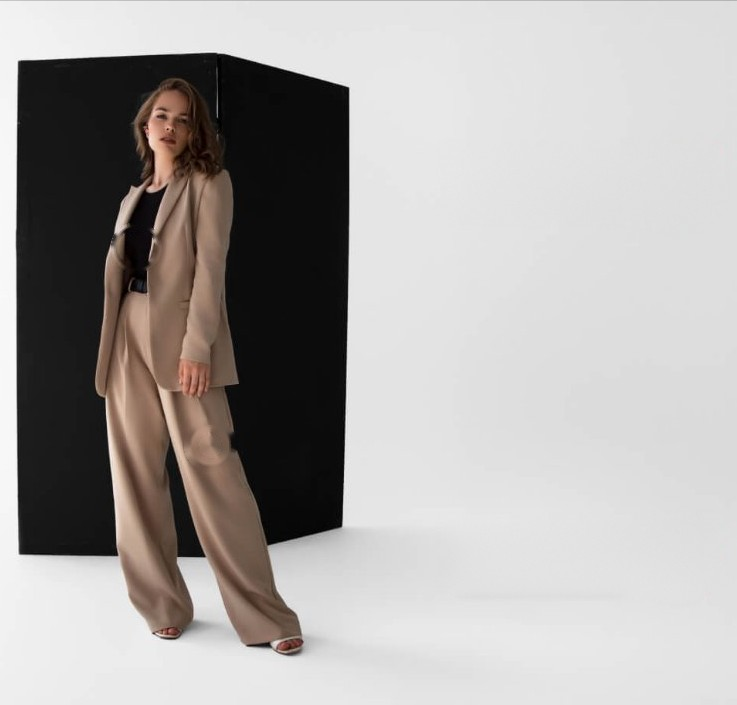
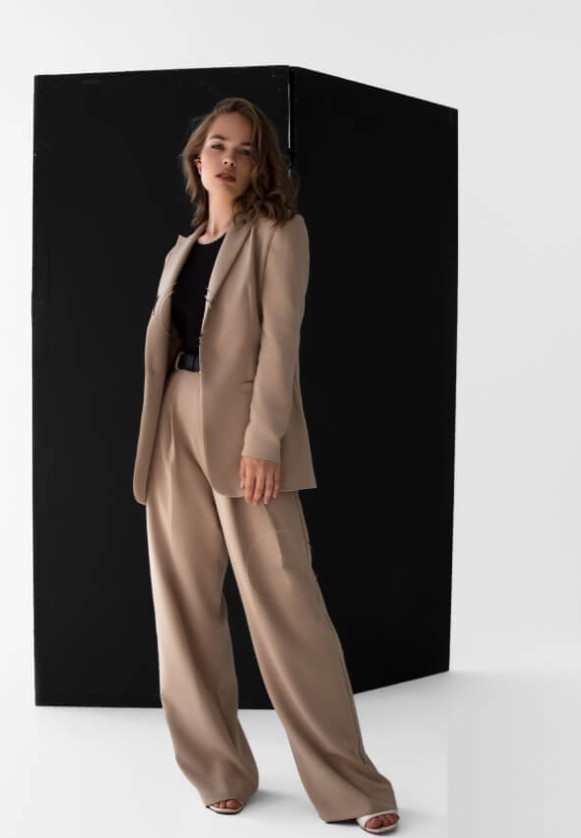
Boutique look section: clickable hotspots, sharper photo, tighter layout

diff --git a/packages/templates/src/web/boutique.tsx b/packages/templates/src/web/boutique.tsx
@@ -494,6 +494,54 @@ function Hero({ shop, link, editing }: BView) {
   );
 }
 
+/** Look book: a big photo with points on it; picking a point shows that product in the card (no scripts: radio buttons). */
+function Look({ view, fallback }: { view: BView; fallback: Product }) {
+  const { shop, link, editing } = view;
+  const products = visible(shop);
+  const spots = (shop.lookSpots ?? [])
+    .map((sp) => ({ ...sp, product: products.find((p) => p.id === sp.productId) }))
+    .filter((sp): sp is typeof sp & { product: Product } => Boolean(sp.product));
+  const cards = spots.length ? spots.map((sp) => sp.product) : [fallback];
+  const many = spots.length > 1;
+  return (
+    <section className="bq-look">
+      {many && spots.map((sp, k) => <input key={sp.id} type="radio" name="bq-look" id={`bq-look-${k}`} className="bq-dot" defaultChecked={k === 0} aria-label={sp.product.name} />)}
+      <div className="bq-look-in">
+        <div className="bq-look-text">
+          <Opt value={shop.lookTitle} editing={editing} edit={ed("site.shop.lookTitle", "text", "عنوان بخش")}>
+            <h2 {...ed("site.shop.lookTitle", "text", "عنوان بخش")}>{shop.lookTitle}</h2>
+          </Opt>
+          <Opt value={shop.lookText} editing={editing} edit={ed("site.shop.lookText", "text", "متن زیر عنوان")}>
+            <p {...ed("site.shop.lookText", "text", "متن زیر عنوان")}>{shop.lookText}</p>
+          </Opt>
+          <div className="bq-look-cards">
+            {cards.map((p, k) => (
+              <PageLink key={`${p.id}-${k}`} to={productPath(p)} link={link} className="bq-look-card">
+                <span className="bq-look-card-pic">{pic(p) && <img src={pic(p)} alt={p.name} loading="lazy" />}</span>
+                <b>{p.name}</b>
+                <Price view={view} p={p} />
+              </PageLink>
+            ))}
+          </div>
+        </div>
+        <div className="bq-look-pic">
+          <span className="bq-look-frame">
+            <span className="bq-look-img" {...ed("site.shop.lookImage", "image", "عکس بزرگ")}>
+              {safeUrl(shop.lookImage) && <img src={safeUrl(shop.lookImage)} alt="" loading="lazy" />}
+            </span>
+            {many &&
+              spots.map((sp, k) => (
+                <label key={sp.id} htmlFor={`bq-look-${k}`} className="bq-spot" style={{ left: `${sp.x}%`, top: `${sp.y}%` }} title={sp.product.name}>
+                  <i />
+                </label>
+              ))}
+          </span>
+        </div>
+      </div>
+    </section>
+  );
+}
+
 function Home(view: BView) {
   const { ctx, shop, link, editing } = view;
   const data = ctx.data;
@@ -618,26 +666,7 @@ function Home(view: BView) {
         />
       )}
 
-      {on("look") && look && (
-        <section className="bq-look">
-          <div className="bq-look-text">
-            <Opt value={shop.lookTitle} editing={editing} edit={ed("site.shop.lookTitle", "text", "عنوان بخش")}>
-              <h2 {...ed("site.shop.lookTitle", "text", "عنوان بخش")}>{shop.lookTitle}</h2>
-            </Opt>
-            <Opt value={shop.lookText} editing={editing} edit={ed("site.shop.lookText", "text", "متن زیر عنوان")}>
-              <p {...ed("site.shop.lookText", "text", "متن زیر عنوان")}>{shop.lookText}</p>
-            </Opt>
-            <PageLink to={productPath(look)} link={link} className="bq-look-card">
-              <span className="bq-look-card-pic">{pic(look) && <img src={pic(look)} alt={look.name} loading="lazy" />}</span>
-              <b>{look.name}</b>
-              <Price view={view} p={look} />
-            </PageLink>
-          </div>
-          <span className="bq-look-pic" {...ed("site.shop.lookImage", "image", "عکس بزرگ")}>
-            {safeUrl(shop.lookImage) && <img src={safeUrl(shop.lookImage)} alt="" loading="lazy" />}
-          </span>
-        </section>
-      )}
+      {on("look") && look && <Look view={view} fallback={look} />}
 
       {on("brands") && cats.length > 0 && (
         <section className="bq-wrap bq-brands">
@@ -1115,10 +1144,11 @@ export function boutiqueSample(locale: ResumeData["locale"]): ResumeData {
     { id: "s4", name: "تاپ مشکی و ژاکت", categoryId: "c2", price: 1350000, images: [img("p4")], description: d },
     { id: "s5", name: "پالتو خزدار کرم", categoryId: "c1", price: 4200000, badge: "جدید", sizes: ["M", "L", "XL"], images: [img("p5")], description: d },
     { id: "s6", name: "تاپ کبریتی کرم", categoryId: "c2", price: 690000, images: [img("p6")], description: d },
-    { id: "s7", name: "کت تک بژ", categoryId: "c1", price: 3100000, sizes: ["S", "M", "L"], images: [img("p7")], description: d },
+    { id: "s7", name: "کت تک بژ", categoryId: "c1", price: 3100000, sizes: ["S", "M", "L"], images: [img("p11"), img("p7")], description: d },
     { id: "s8", name: "دامن جین کلوش", categoryId: "c3", price: 980000, featured: true, images: [img("p8")], description: d },
     { id: "s9", name: "بوت چرم قهوهای", categoryId: "c5", price: 2900000, featured: true, sizes: ["37", "38", "39", "40"], images: [img("p9")], description: d },
     { id: "s10", name: "کت جین کلاسیک", categoryId: "c1", price: 1750000, featured: true, images: [img("p10")], description: d },
+    { id: "s11", name: "ست کت و شلوار بژ", categoryId: "c1", price: 4850000, salePrice: 4390000, sizes: ["S", "M", "L"], images: [img("p7"), img("p11")], description: d },
   ];
   return {
     ...base,
@@ -1161,6 +1191,10 @@ export function boutiqueSample(locale: ResumeData["locale"]): ResumeData {
         lookText: "یک ترکیب آماده برای روزهای کاری و دورهمیها.",
         lookImage: img("look"),
         lookProductId: "s7",
+        lookSpots: [
+          { id: "k1", productId: "s7", x: 32, y: 37.5 },
+          { id: "k2", productId: "s11", x: 48.5, y: 67.7 },
+        ],
         trendImage: img("trend"),
         bandItems: ["استایل برای هر سفر", "خوشپوش، بدون زحمت", "استایل مناسب خودت را پیدا کن"],
         perks: [
@@ -1332,18 +1366,34 @@ ${[1, 2, 3, 4, 5].map((n) => `.bq-dot:nth-of-type(${n}):checked ~ .bq-slides > .
 .bq-band .bq-marq-copy > span { gap: clamp(26px, 3.4cqi, 54px); padding-inline-end: clamp(26px, 3.4cqi, 54px); }
 .bq-band i { font-style: normal; opacity: .85; }
 
-/* Look book: the product beside a big photo; the photo keeps its own size and fades into the background */
-.bq-look { display: grid; grid-template-columns: minmax(0, 1fr) minmax(0, 1fr); height: clamp(480px, 44cqi, 705px); background: linear-gradient(90deg, #E3E3E3, #E6E6E6 48%, #EFEFEF); color: #111; }
-.bq-look-text { display: grid; align-content: center; justify-items: center; gap: 12px; padding: clamp(30px, 4cqi, 60px) 20px; text-align: center; }
-.bq-look-text h2 { font-size: clamp(1.7em, 3.2cqi, 3em); font-weight: 500; }
+/* Look book: a product card beside a big photo with points; the photo keeps its own size and blends into the background */
+/* The background follows the photo's own light: lighter on its outer side, darker towards the card. */
+.bq-look { position: relative; background: linear-gradient(90deg, #F4F4F4 14%, #E5E5E5 48%, #ECECEC); color: #111; }
+.bq-look-in { display: grid; grid-template-columns: minmax(0, 1fr) minmax(0, 1fr); height: clamp(540px, 50cqi, 800px); }
+.bq-look-text { display: grid; align-content: center; justify-items: center; gap: 10px; padding: clamp(24px, 3cqi, 46px) 20px; text-align: center; }
+.bq-look-text h2 { font-size: clamp(1.7em, 3cqi, 2.9em); font-weight: 500; }
 .bq-look-text > p { color: #555; }
-.bq-look-card { display: grid; justify-items: center; gap: 6px; width: min(250px, 60%); margin-top: clamp(10px, 2cqi, 30px); }
-.bq-look-card-pic { position: relative; width: 100%; aspect-ratio: 290 / 372; overflow: hidden; background: #F2F2F2; }
+.bq-look-cards { display: grid; width: min(300px, 70%); margin-top: clamp(8px, 1.4cqi, 20px); }
+.bq-look-card { grid-area: 1 / 1; display: grid; justify-items: center; gap: 6px; }
+.bq-look-card-pic { position: relative; width: 100%; aspect-ratio: 373 / 475; overflow: hidden; background: #F2F2F2; }
 .bq-look-card-pic img { position: absolute; inset: 0; width: 100%; height: 100%; object-fit: cover; transition: transform .7s; }
 .bq-look-card:hover img { transform: scale(1.05); }
 .bq-look-card b { margin-top: 8px; font-size: 1.1em; font-weight: 500; }
-.bq-look-pic { position: relative; display: flex; justify-content: flex-start; min-height: 0; }
-.bq-look-pic img { display: block; max-width: 100%; height: 100%; object-fit: contain; object-position: left bottom; -webkit-mask-image: linear-gradient(to left, transparent, #000 18%); mask-image: linear-gradient(to left, transparent, #000 18%); }
+${[1, 2, 3, 4].map((n) => `.bq-dot:nth-of-type(${n}):not(:checked) ~ .bq-look-in .bq-look-card:nth-child(${n})`).join(", ")} { opacity: 0; visibility: hidden; transform: translateY(14px); }
+.bq-look-card { transition: opacity .5s, visibility .5s, transform .6s cubic-bezier(.2, 1, .3, 1); }
+/* The picture sits towards the card (as in the reference) and is never stretched past its size. */
+.bq-look-pic { position: relative; min-height: 0; }
+/* Pinned to the side next to the card, at the full height of the section. */
+.bq-look-frame { position: absolute; inset-block: 0; right: 3%; display: block; max-width: 97%; }
+.bq-look-img { display: block; height: 100%; }
+.bq-look-frame img { display: block; height: 100%; width: auto; max-width: 100%; object-fit: contain; object-position: bottom; -webkit-mask-image: linear-gradient(to right, transparent, #000 4%, #000 90%, transparent); mask-image: linear-gradient(to right, transparent, #000 4%, #000 90%, transparent); }
+.bq-spot { position: absolute; width: 52px; height: 52px; margin: -26px 0 0 -26px; display: grid; place-items: center; border: 1px solid rgb(255 255 255 / .9); border-radius: 50%; cursor: pointer; transition: transform .3s, background .3s; }
+.bq-spot i { width: 18px; height: 18px; border-radius: 50%; background: #fff; box-shadow: 0 2px 8px rgb(0 0 0 / .3); }
+.bq-spot::after { content: ""; position: absolute; inset: -1px; border-radius: 50%; border: 1px solid #fff; animation: bq-pulse 2.2s ease-out infinite; }
+@keyframes bq-pulse { from { transform: scale(1); opacity: .9; } to { transform: scale(1.7); opacity: 0; } }
+.bq-spot:hover { transform: scale(1.12); background: rgb(255 255 255 / .2); }
+${[1, 2, 3, 4].map((n) => `.bq-dot:nth-of-type(${n}):checked ~ .bq-look-in .bq-spot:nth-of-type(${n})`).join(", ")} { background: rgb(255 255 255 / .28); }
+${[1, 2, 3, 4].map((n) => `.bq-dot:nth-of-type(${n}):checked ~ .bq-look-in .bq-spot:nth-of-type(${n}) i`).join(", ")} { background: var(--bq-red); }
 
 /* Category boxes */
 .bq-brands { display: grid; grid-template-columns: repeat(3, minmax(0, 1fr)); gap: 22px; padding-block: clamp(40px, 6cqi, 70px) 0; }
@@ -1498,9 +1548,10 @@ ${[1, 2, 3, 4, 5].map((n) => `.bq-dot:nth-of-type(${n}):checked ~ .bq-slides > .
   .bq-cats { grid-template-columns: 1fr; }
   .bq-new { min-height: 640px; }
   .bq-look, .bq-trends, .bq-product, .bq-cart, .bq-quotes { grid-template-columns: 1fr; }
-  .bq-look { height: auto; }
-  .bq-look-pic { height: 420px; justify-content: center; }
-  .bq-look-pic img { -webkit-mask-image: none; mask-image: none; }
+  .bq-look-in { grid-template-columns: 1fr; height: auto; }
+  .bq-look-pic { height: 480px; }
+  .bq-look { background: #EDEDED; }
+  .bq-look-frame { inset-inline: 0; width: fit-content; margin-inline: auto; }
   .bq-trends-pic { max-height: 520px; }
   .bq-grid { grid-template-columns: repeat(2, minmax(0, 1fr)); gap: 24px 14px; }
   .bq-perks { grid-template-columns: 1fr 1fr; }
@@ -1532,8 +1583,8 @@ ${[1, 2, 3, 4, 5].map((n) => `.bq-dot:nth-of-type(${n}):checked ~ .bq-slides > .
   .bq-discover { aspect-ratio: auto; min-height: 210px; padding-block: 28px; }
   .bq-discover-text { width: 70%; }
   .bq-dots.two { grid-template-columns: 1fr; gap: 10px; }
-  .bq-look-card { width: min(220px, 70%); }
-  .bq-look-pic { height: 360px; }
+  .bq-look-cards { width: min(260px, 72%); }
+  .bq-look-pic { height: 420px; }
   .bq-brands { grid-template-columns: 1fr; gap: 12px; }
   .bq-brands a { padding: 18px 12px; }
   .bq-new .bq-btn { padding: 13px 22px; white-space: nowrap; }
@@ -1550,6 +1601,7 @@ ${[1, 2, 3, 4, 5].map((n) => `.bq-dot:nth-of-type(${n}):checked ~ .bq-slides > .
 @media (prefers-reduced-motion: reduce) {
   .bq-card, .bq-check, .bq-main > *, .bq-drawer { animation: none !important; }
   .bq-marq-track { animation: none; }
-  .bq-slide, .bq-slide > * { transition: none !important; }
+  .bq-slide, .bq-slide > *, .bq-look-card { transition: none !important; }
+  .bq-spot::after { animation: none; }
 }
 `;

diff --git a/apps/web/src/components/shop/ShopManager.tsx b/apps/web/src/components/shop/ShopManager.tsx
@@ -417,17 +417,69 @@ function Banners({ shop, setShop }: { shop: Shop; setShop: (s: Partial<Shop>) =>
         />
       </Field>
       <h3>بخش «کمد لباست را تازه کن»</h3>
-      <Field label="محصولی که کنار عکس بزرگ نمایش داده میشود">
-        <select value={shop.lookProductId ?? ""} onChange={(e) => setShop({ lookProductId: e.target.value || undefined })}>
-          <option value="">خودکار (اولین محصول ویژه)</option>
-          {shop.products.map((p) => (
-            <option key={p.id} value={p.id}>
-              {p.name}
-            </option>
-          ))}
-        </select>
-      </Field>
+      <LookSpots shop={shop} setShop={setShop} />
       <p className="muted">عکسها و متنهای بقیهی بخشها را مستقیم روی خود سایت ویرایش کنید؛ روی هر کدام بزنید.</p>
+    </div>
+  );
+}
+
+type Spot = NonNullable<Shop["lookSpots"]>[number];
+
+/** Points on the big look-book photo; each opens one product in the card beside it. */
+function LookSpots({ shop, setShop }: { shop: Shop; setShop: (s: Partial<Shop>) => void }) {
+  const spots = shop.lookSpots ?? [];
+  const save = (next: Spot[]) => setShop({ lookSpots: next.length ? next : undefined });
+  const update = (id: string, patch: Partial<Spot>) => save(spots.map((x) => (x.id === id ? { ...x, ...patch } : x)));
+  // Percent with an optional decimal point, typed with Persian or Latin digits.
+  const percent = (v: string) => {
+    const n = Number.parseFloat(v.replace(/[۰-۹]/g, (d) => String("۰۱۲۳۴۵۶۷۸۹".indexOf(d))).replace(/[٫,]/g, "."));
+    return Number.isFinite(n) ? Math.round(Math.max(0, Math.min(100, n)) * 10) / 10 : 50;
+  };
+  return (
+    <div className="shm-spots">
+      <p className="muted">
+        روی عکس بزرگ این بخش نقطههایی هست که با کلیک روی هر کدام، محصول همان نقطه در کارت کنار عکس نمایش داده میشود. جای هر نقطه را با درصد فاصله از چپ و از بالای عکس تعیین کنید.
+      </p>
+      {spots.map((x, k) => (
+        <div key={x.id} className="shm-spot">
+          <b>نقطهی {new Intl.NumberFormat("fa-IR").format(k + 1)}</b>
+          <select value={x.productId} onChange={(e) => update(x.id, { productId: e.target.value })} aria-label="محصول این نقطه">
+            {shop.products.map((p) => (
+              <option key={p.id} value={p.id}>
+                {p.name}
+              </option>
+            ))}
+          </select>
+          <label>
+            از چپ ٪
+            <input inputMode="numeric" defaultValue={String(x.x)} onBlur={(e) => update(x.id, { x: percent(e.target.value) })} />
+          </label>
+          <label>
+            از بالا ٪
+            <input inputMode="numeric" defaultValue={String(x.y)} onBlur={(e) => update(x.id, { y: percent(e.target.value) })} />
+          </label>
+          <button type="button" className="btn ghost small danger" onClick={() => save(spots.filter((y) => y.id !== x.id))}>
+            حذف
+          </button>
+        </div>
+      ))}
+      {spots.length < 4 && shop.products.length > 0 && (
+        <button type="button" className="btn small" onClick={() => save([...spots, { id: newId(), productId: shop.products[0]!.id, x: 50, y: 50 }])}>
+          + نقطهی جدید
+        </button>
+      )}
+      {spots.length < 2 && (
+        <Field label="محصول کارت (وقتی کمتر از دو نقطه دارید)">
+          <select value={shop.lookProductId ?? ""} onChange={(e) => setShop({ lookProductId: e.target.value || undefined })}>
+            <option value="">خودکار (اولین محصول ویژه)</option>
+            {shop.products.map((p) => (
+              <option key={p.id} value={p.id}>
+                {p.name}
+              </option>
+            ))}
+          </select>
+        </Field>
+      )}
     </div>
   );
 }

diff --git a/packages/schema/src/resume.schema.ts b/packages/schema/src/resume.schema.ts
@@ -15,7 +15,7 @@ const YEAR_MONTH_OR_EMPTY = /^(\d{4}-(0[1-9]|1[0-2]))?$/;
 /** Sample pictures shipped with the app and served by the API (see SAMPLE_ASSETS_PATH in the API). */
 export const SAMPLE_ASSETS_PATH = "/_assets/samples/";
 /** Bumped when the pictures change, so browsers fetch the new files instead of cached ones. */
-export const SAMPLE_ASSETS_VERSION = 7;
+export const SAMPLE_ASSETS_VERSION = 8;
 export const isSampleAsset = (v: string) => /^\/_assets\/samples\/[a-z0-9-]+\.(jpg|png)(\?v=\d+)?$/.test(v);
 
 function buildResumeSchemas(strict: boolean) {
@@ -233,6 +233,8 @@ function buildResumeSchemas(strict: boolean) {
     lookText: z.string().max(200).optional(),
     lookImage: optionalUrl,
     lookProductId: z.string().max(40).optional(), // the product shown beside the big picture
+    // Points on the big picture; picking one shows its product in the card. x and y are percentages.
+    lookSpots: z.array(z.object({ id, productId: z.string().max(40), x: z.number().min(0).max(100), y: z.number().min(0).max(100) })).max(4).optional(),
     trendImage: optionalUrl,
     bandItems: z.array(z.string().max(60)).max(6).optional(), // the moving dark band
     perks: z.array(perk).max(4).optional(),

diff --git a/apps/web/src/styles.css b/apps/web/src/styles.css
@@ -1182,3 +1182,9 @@ select {
 .shm-slide-fields input, .shm-slide-fields textarea { width: 100%; padding: 8px 10px; border: 1px solid var(--border); border-radius: 8px; font: inherit; background: #fff; }
 .shm-cats > h3 { margin: 14px 0 0; }
 @media (max-width: 560px) { .shm-slide { flex-direction: column; } .shm-thumb.wide { width: 100%; height: 140px; } }
+.shm-spots { display: grid; gap: 10px; }
+.shm-spots > .btn { justify-self: start; }
+.shm-spot { display: flex; align-items: center; gap: 10px; flex-wrap: wrap; padding: 8px 10px; border: 1px solid var(--border); border-radius: 8px; font-size: .9rem; }
+.shm-spot select { flex: 1; min-width: 160px; padding: 7px 9px; border: 1px solid var(--border); border-radius: 8px; font: inherit; background: #fff; }
+.shm-spot label { display: inline-flex; align-items: center; gap: 6px; }
+.shm-spot input { width: 64px; padding: 7px 9px; border: 1px solid var(--border); border-radius: 8px; font: inherit; text-align: center; }
